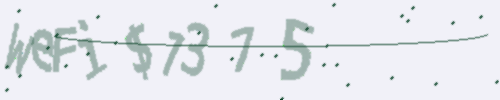
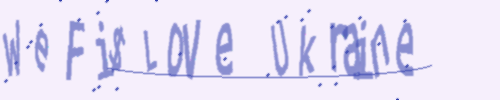
Saving the captcha text to the database table

diff --git a/cogs/events/on_member_join.py b/cogs/events/on_member_join.py
@@ -6,8 +6,8 @@ from discord import File
 from discord.ext import commands
 
 from data import config
+from database.db import Database
 
-import asyncio
 
 def generate_captcha_text():
     global captcha_body
@@ -37,10 +37,17 @@ class Member(commands.Cog):
         file_name = f'captchas/{member.id}.png'
         image.write(captcha_text, file_name)
         picture = File(open(file_name, 'rb'))
-        await welcome_channel.send(f'👋 Hello, {member.mention}. Welcome to the We-Fi server!\n'
-                                   f'You need to register. Please, enter - the **/register** __captcha__',
-                                   file=picture)
-        await asyncio.sleep(60)
+        Database().register_user(
+            discord_id=member.id,
+            user_name=member.name,
+            captcha_text=captcha_text.lower()
+        )
+        await welcome_channel.send(
+            f'👋 Hello, {member.mention}. Welcome to the We-Fi server!\n'
+            f'You need to register. '
+            f'Please, enter:  **{config.BOT_PREFIX}register** __captcha__',
+            file=picture)
+
 
 def setup(bot):
     bot.add_cog(Member(bot))

diff --git a/bot.py b/bot.py
@@ -1,22 +1,24 @@
+import os
+
 import discord
 from discord.ext import commands
 
 from data import config
-import os
+
 os.system('clear')
 
 intents = discord.Intents.default()
 intents.members = True
 
-bot = commands.Bot(command_prefix=('.', ';'), intents=intents)
+bot = commands.Bot(command_prefix=(config.BOT_PREFIX, ';'), intents=intents)
 
-bot.load_extension("cogs.events.on_ready")
-bot.load_extension("cogs.events.on_member_join")
+bot.load_extension('cogs.events.on_ready')
+bot.load_extension('cogs.events.on_member_join')
 
-bot.load_extension("cogs.cogs_manager")
+bot.load_extension('cogs.cogs_manager')
 
-bot.load_extension("cogs.achivements.achivements")
-bot.load_extension("cogs.system.clear_chat")
-bot.load_extension("cogs.system.json")
+bot.load_extension('cogs.achivements.achivements')
+bot.load_extension('cogs.system.clear_chat')
+bot.load_extension('cogs.system.json')
 
 bot.run(config.BOT_TOKEN)

diff --git a/database/db.py b/database/db.py
@@ -23,7 +23,7 @@ class Database:
 
     def reset_sequecne(self, table_name):
         sql = 'SELECT 1 FROM sqlite_sequence WHERE name=?'
-        val = (table_name, )
+        val = (table_name,)
         self.cur.execute(sql, val)
         if not bool(self.cur.fetchall()):
             return False
@@ -51,3 +51,15 @@ class Database:
         except Exception as err:
             print(err)
             return False
+
+    def register_user(self, discord_id, user_name, captcha_text):
+        sql_get_user = 'DELETE FROM registration_users WHERE discord_id=?'
+        val = (discord_id,)
+        self.cur.execute(sql_get_user, val)
+
+        sql = 'INSERT INTO registration_users (discord_id, username, captcha) ' \
+              'VALUES (?,?,?)'
+        val = (discord_id, user_name, captcha_text)
+        self.cur.execute(sql, val)
+        self.conn.commit()
+        self.conn.close()

diff --git a/data/config.py b/data/config.py
@@ -12,7 +12,7 @@ load_dotenv(PATH_ENV_FILE)
 
 BOT_TOKEN = str(os.getenv('BOT_TOKEN'))
 
-BOT_PREFIX = ''
+BOT_PREFIX = '.'
 CAPTCHA_PREFIX = 'WeFi$'
 
 ID_OWNER = 398567252061978628
